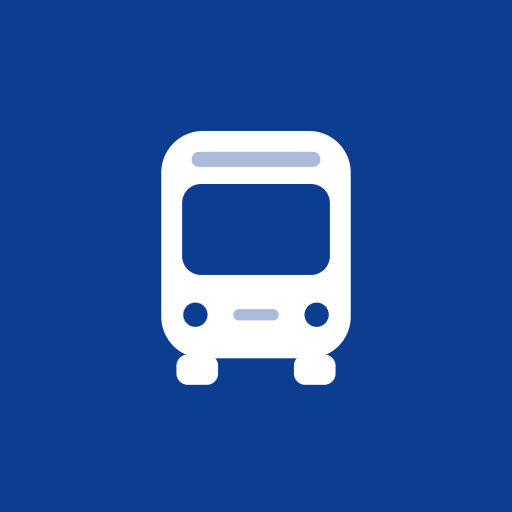
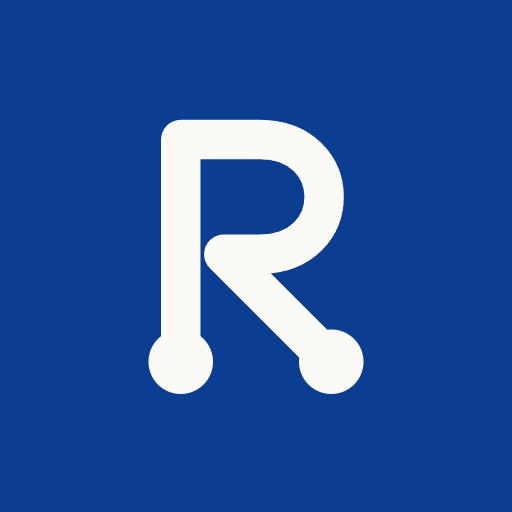
feat(ilme): Reittari-merkki ja nimi "Reittari <kaupunki>" (#63)
Villen päätökset 4.10.2026 (päätössivun kohdat 3, 4 ja 6):
- Uusi ikoni: kirjain R yhtenä reittiviivana, päissä pysäkit, Savikurki-merkin viivakielellä.
  icon.svg, icon-app.svg (maskable-turva-alue) ja kotinäytön 192/512 PNG:t.
- Kaupungin alkukirjain pois yläpalkista ja ylläpitosivulta: tilalla sama merkki. Tausta pysyy
  kaupungin värinä (Vaasassa Liftin pinkki), viiva currentColor.
- Otsikko "Lahden bussiaikataulut" -> "Reittari Lahti" kaikilla kielillä, sama kuin kotinäytön
  nimi. Alaotsikko on liikenteen virallinen nimi (CONFIG.operator); kaupunkikohtainen ohitus
  CONFIG.headerSub (Inkoo, ja ruotsiksi Vaasa Lifti, Raasepori BOSSE, Turku Föli). Lahden
  manifestin nimi "Reittari Lahti".
- smoke ja prod-smoke: otsikkotarkistukset uuteen muotoon, FI/SV-fallbackia ei edelleenkään hyväksytä.

Worker npm test OK. Selain: Lahti fi/en, Vaasa sv, Inkoo fi/sv, Raasepori sv, Turku fi/sv, Kuopio fi:
otsikko ja alaotsikko oikein, 0 sivuvirhettä.

Changed region(s): [[0.2812, 0.2188, 0.7188, 0.7812]]

diff --git a/index.html b/index.html
@@ -2206,7 +2206,8 @@
   .header-inner { gap: 0.5rem 1.5rem; }
   .brand { flex: 0 1 auto; }
   .brand-glyph { width: 34px; height: 34px; border-radius: 8px; background: var(--btn-bg); color: #fff;
-    display: grid; place-items: center; font-weight: 800; font-size: 1.05rem; line-height: 1; flex: none; }
+    display: grid; place-items: center; flex: none; }
+  .brand-glyph svg { width: 100%; height: 100%; display: block; }
   header h1 { font-size: 1.1rem; font-weight: 800; letter-spacing: -0.005em; line-height: 1.2; }
   header p { color: var(--ink-muted); opacity: 1; font-size: 0.78rem; }
   .hdr-nav { display: flex; gap: 1.25rem; flex: 1 1 auto; min-width: 0; }
@@ -2321,10 +2322,12 @@
 <header>
   <div class="header-inner">
     <a class="brand" id="brandLink" href="#/" aria-label="Etusivulle">
-      <span class="brand-glyph" id="brandGlyph" aria-hidden="true">L</span>
+      <!-- Reittari-merkki (4.10.2026, Villen päätös): kaupungin alkukirjain korvattu R-reittiviivalla.
+           Tausta pysyy kaupungin värinä (--btn-bg), viiva currentColor. Sama merkki kuin icon.svg:ssä. -->
+      <span class="brand-glyph" id="brandGlyph" aria-hidden="true"><svg viewBox="0 0 120 120" aria-hidden="true" focusable="false"><g transform="translate(-1 -2.5)"><path d="M40 92V30H62C86 30 86 62 62 62H52L80 90" fill="none" stroke="currentColor" stroke-width="11" stroke-linecap="round" stroke-linejoin="round"/><circle cx="40" cy="92" r="9" fill="currentColor"/><circle cx="82" cy="92" r="9" fill="currentColor"/></g></svg></span>
       <div>
-        <h1 id="appTitle">Lahden bussiaikataulut</h1>
-        <p id="appSub">Epävirallinen palvelu · data: Lahden seudun liikenne / Waltti (CC BY 4.0)</p>
+        <h1 id="appTitle">Reittari Lahti</h1>
+        <p id="appSub">Lahden seudun liikenne</p>
       </div>
     </a>
     <!-- Päävalikko (ilme 25.9.2026): kuntalaisen etusivu, tulosteet, tiski ja henkilöstön tilanne.
@@ -2626,6 +2629,7 @@ const CONFIGS = {
     cityNames: { sv: "Vasa" },
     cityGenitives: { sv: "Vasa" },
     operator: "Vaasan paikallisliikenne",
+    headerSub: { sv: "Lifti" },
     operatorShort: "Lifti",
     feedMatch: /vaasa/i,
     rail: "VS",
@@ -2840,6 +2844,7 @@ const CONFIGS = {
     cityNames: { sv: "Raseborg" },
     cityGenitives: { sv: "Raseborgs" },
     operator: "Raaseporin joukkoliikenne",
+    headerSub: { sv: "BOSSE" },
     operatorShort: "BOSSE",
     feedMatch: /raasepori/i,
     // Kaksi asemaa, tiskin oletuspysäkin mukainen ensin. Tammisaari (TMS) on
@@ -3690,6 +3695,7 @@ const CONFIGS = {
     cityNames: { sv: "Åbo" },
     cityGenitives: { sv: "Åbo" },
     operator: "Föli, Turun seudun joukkoliikenne",
+    headerSub: { sv: "Föli" },
     operatorShort: "Föli",
     feedMatch: /^FOLI$/i,          // ankkuroitu: FUNI (Föri + funikulaari) on eri feed
     rail: "TKU",                    // Turku asema (rata.digitraffic)
@@ -3820,6 +3826,7 @@ const CONFIGS = {
     cityGenitives: { sv: "Ingå" },
     // Uudenmaan ELY-keskus ei ole ollut joukkoliikenteen tilaaja 1.1.2026 jälkeen.
     operator: "Traficom ja alueen liikennöitsijät",
+    headerSub: { fi: "Inkoon joukkoliikenne", sv: "Ingå kollektivtrafik", en: "Inkoo public transport" },
     // Inkoo on ruotsinkielisenemmistöinen: tulosteessa tilaajarivi ei saa jäädä suomeksi.
     operators: { sv: "Traficom och trafikidkarna i området",
                  en: "Traficom and local operators" },
@@ -4047,11 +4054,13 @@ const app = document.getElementById("app");
 const STRINGS = {
   fi: {
     // sovelluskehys
-    appTitle: "{cityGen} bussiaikataulut",
-    appTitleTag: "{cityGen} bussiaikataulut (epävirallinen)",
+    // Nimi (Villen päätös 4.10.2026): tuotenimi + kaupunki, sama kuin kotinäytön ikonin nimi
+    // (manifestit "Reittari Turku"). Alaotsikko on liikenteen virallinen nimi (headerSubText).
+    appTitle: "Reittari {city}",
+    appTitleTag: "Reittari {city} (epävirallinen)",
     metaDesc: "{cityGen} bussien aikataulut, reaaliaikaiset lähdöt, reittiopas, häiriötiedotteet, liput ja kartat selaimessa. Epävirallinen palvelu avoimen Waltti-/Digitransit-datan päälle.",
     metaDescNoRt: "{cityGen} bussien aikataulut, pysäkkien lähdöt, reittiopas, häiriötiedotteet, liput ja kartat selaimessa. Epävirallinen palvelu avoimen Waltti-/Digitransit-datan päälle.",
-    headerSub: "Aikataulut ja reitit selkeästi, avoimesta datasta",
+    headerSub: "{operator}",
     heroTitle: "Mihin matka?",
     heroTagline: "Hae nopein bussireitti perille reaaliaikaisilla lähtöajoilla.",
     heroTaglineNoRt: "Hae nopein bussireitti perille ja katso pysäkin seuraavat lähdöt.",
@@ -4773,11 +4782,11 @@ const STRINGS = {
     copied: "Kopioitu!", copyManual: "Kopiointi estetty. Valitse ja kopioi käsin.",
   },
   en: {
-    appTitle: "{city} bus timetables",
-    appTitleTag: "{city} bus timetables (unofficial)",
+    appTitle: "Reittari {city}",
+    appTitleTag: "Reittari {city} (unofficial)",
     metaDesc: "{city} bus timetables, real-time departures, journey planner, disruption alerts, tickets and maps in your browser. Unofficial service built on open Waltti/Digitransit data.",
     metaDescNoRt: "{city} bus timetables, stop departures, journey planner, disruption alerts, tickets and maps in your browser. Unofficial service built on open Waltti/Digitransit data.",
-    headerSub: "Timetables and routes made clear, from open data",
+    headerSub: "{operator}",
     heroTitle: "Where to?",
     heroTagline: "Find the fastest bus route with real-time departures.",
     heroTaglineNoRt: "Find the fastest bus route and see the next departures from your stop.",
@@ -5473,11 +5482,11 @@ const STRINGS = {
     copied: "Copied!", copyManual: "Copy blocked. Select and copy manually.",
   },
   sv: {
-    appTitle: "Busstidtabeller i {city}",
-    appTitleTag: "Busstidtabeller i {city} (inofficiell)",
+    appTitle: "Reittari {city}",
+    appTitleTag: "Reittari {city} (inofficiell)",
     metaDesc: "Busstidtabeller i {city}, avgångar i realtid, reseplanerare, störningsmeddelanden, biljetter och kartor i webbläsaren. Inofficiell tjänst byggd på öppna Waltti-/Digitransit-data.",
     metaDescNoRt: "Busstidtabeller i {city}, hållplatsernas avgångar, reseplanerare, störningsmeddelanden, biljetter och kartor i webbläsaren. Inofficiell tjänst byggd på öppna Waltti-/Digitransit-data.",
-    headerSub: "Tidtabeller och rutter tydligt, från öppna data",
+    headerSub: "{operator}",
     heroTitle: "Vart vill du?",
     heroTagline: "Hitta den snabbaste bussrutten med avgångar i realtid.",
     heroTaglineNoRt: "Hitta den snabbaste bussrutten och se nästa avgångar från hållplatsen.",
@@ -6274,6 +6283,10 @@ function nlExample(i) {
 }
 
 function t(key, params) { return tIn(lang, key, params); }
+// Yläpalkin alaotsikko: liikenteen virallinen nimi (CONFIG.operator). Kaupunki voi ohittaa sen
+// kielittäin (CONFIG.headerSub = {fi, sv, en}), jos operator-kenttä ei sovi otsikoksi tai
+// ruotsinkielinen nimi on eri (Inkoo, Raasepori, Vaasa).
+function headerSubText() { return (CONFIG.headerSub && CONFIG.headerSub[lang]) || t("headerSub"); }
 // ●-selite ("= reaaliaikainen arvio") vain kaupungeissa, joiden lähdöissä on reaaliaikaa.
 function rtLegendHtml(key) {
   return CONFIG.departureRealtime === false ? "" : `<p class="muted"><span class="rt">●</span> ${t(key)}</p>`;
@@ -6342,9 +6355,8 @@ function updateChrome() {
   setMeta('meta[name="twitter:description"]', t("metaDesc"));
   setMeta('meta[property="og:locale"]', lang === "sv" ? "sv_SE" : lang === "en" ? "en_GB" : "fi_FI");
   document.getElementById("appTitle").textContent = t("appTitle");
-  document.getElementById("appSub").textContent = t("headerSub");
+  document.getElementById("appSub").textContent = headerSubText();
   document.getElementById("brandLink").setAttribute("aria-label", t("toHomeAria"));
-  document.getElementById("brandGlyph").textContent = String(CONFIG.city || "R").charAt(0).toUpperCase();
   const nav = document.getElementById("hdrNav");
   nav.setAttribute("aria-label", t("navAria"));
   const navItems = APP_MODE === "resident" ? [["", "#/", t("navHome")]]
@@ -6359,7 +6371,7 @@ function updateChrome() {
   document.getElementById("appFooter").innerHTML = `
     <div class="foot-cols">
       <div class="foot-brand">
-        <div><strong>${t("appTitle")}</strong><br><span class="muted">${t("headerSub")}</span>
+        <div><strong>${t("appTitle")}</strong><br><span class="muted">${headerSubText()}</span>
           <p class="foot-provider" id="footProvider"><span class="muted">${t("footProvider")}:</span>
             <a class="foot-sk" href="https://savikurki.fi" target="_blank" rel="noopener"><svg class="foot-sk-mark" viewBox="0 0 120 120" width="18" height="18" aria-hidden="true" focusable="false"><rect width="120" height="120" rx="24" fill="#b8764f"/><path d="M32 92 C 58 97, 88 92, 88 71 C 88 52, 36 62, 36 41 C 36 28, 50 22, 64 27" fill="none" stroke="#fbfaf7" stroke-width="15" stroke-linecap="round"/><path d="M66 28 L 96 37" fill="none" stroke="#fbfaf7" stroke-width="9" stroke-linecap="round"/></svg>Savikurki Digital Oy</a>,
             <a href="mailto:ville@reittari.fi">ville@reittari.fi</a></p>

diff --git a/tests/prod-smoke.test.js b/tests/prod-smoke.test.js
@@ -74,7 +74,7 @@ const DESK_PRINT_CITIES = (process.env.SMOKE_DESK_PRINT_CITIES === undefined
   ? null                                   // oletus: CITIES-taulun deskPrint päättää
   : process.env.SMOKE_DESK_PRINT_CITIES.split(",").map(s => s.trim()).filter(Boolean));
 
-// gen = FI-otsikon genetiivi ("<gen> bussiaikataulut") — Lahti-fallbackia ei hyväksytä.
+// name = FI-otsikon kaupunki ("Reittari <name>", 4.10.2026) — Lahti-fallbackia ei hyväksytä.
 // svTitle = kaksikielisen kaupungin SV-otsikko (FI-fallbackia ei hyväksytä).
 // nightStopId/nightLines = Lahden yövuorotarkistus (Matkakeskus A, todennettu datasta
 // 9.7.2026). FAIL-taso ei sido linjanumeroita: feedivaihto saa muuttaa yölinjoja ilman
@@ -101,33 +101,33 @@ const DESK_PRINT_CITIES = (process.env.SMOKE_DESK_PRINT_CITIES === undefined
 // raskain yksittäinen toimenpide, eikä sitä pidä ajaa 16 kertaa saman avaimen budjetista.
 // Ylikirjoitettavissa: SMOKE_BATCH_CITIES=vaasa,lahti (tyhjä = pois käytöstä).
 let CITIES = [ // let eika const: SMOKE_CITIES suodattaa taman eraajossa
-  { key: "lahti",   gen: "Lahden",   nightStopId: "Lahti:85811", nightLines: ["91", "96", "97"],
+  { key: "lahti",   name: "Lahti",   nightStopId: "Lahti:85811", nightLines: ["91", "96", "97"],
     batchPosterLine: "4", deskPrint: true },
-  { key: "kuopio",  gen: "Kuopion" },
-  { key: "salo",    gen: "Salon" },
-  { key: "kajaani", gen: "Kajaanin" },
-  { key: "vaasa",   gen: "Vaasan",   svTitle: "Busstidtabeller i Vasa", deskPrint: true },
-  { key: "kotka",   gen: "Kotkan" },
-  { key: "raasepori", gen: "Raaseporin", svTitle: "Busstidtabeller i Raseborg", deskPrint: true },
-  { key: "kouvola", gen: "Kouvolan", posterStopId: "Kouvola:155786" },
-  { key: "mikkeli", gen: "Mikkelin", posterStopId: "Mikkeli:310514", corridorDirs: 1 },
+  { key: "kuopio",  name: "Kuopio" },
+  { key: "salo",    name: "Salo" },
+  { key: "kajaani", name: "Kajaani" },
+  { key: "vaasa",   name: "Vaasa",   svTitle: "Reittari Vasa", deskPrint: true },
+  { key: "kotka",   name: "Kotka" },
+  { key: "raasepori", name: "Raasepori", svTitle: "Reittari Raseborg", deskPrint: true },
+  { key: "kouvola", name: "Kouvola", posterStopId: "Kouvola:155786" },
+  { key: "mikkeli", name: "Mikkeli", posterStopId: "Mikkeli:310514", corridorDirs: 1 },
   // Kaupunkisweep 7.8.2026: presetit datavarmistettu kesä- JA talvikoetuksella.
   // Rovaniemen 4+5-käytävän yhteinen jakso on yksisuuntainen (linjat kiertävät
   // keskustan eri reittejä) → corridorDirs 1, sama verkon muoto kuin Mikkelissä.
-  { key: "hameenlinna", gen: "Hämeenlinnan" },
-  { key: "joensuu", gen: "Joensuun" },
-  { key: "jyvaskyla", gen: "Jyväskylän" },
-  { key: "lappeenranta", gen: "Lappeenrannan" },
-  { key: "oulu", gen: "Oulun" },
-  { key: "pori", gen: "Porin" },
-  { key: "rovaniemi", gen: "Rovaniemen", corridorDirs: 1 },
+  { key: "hameenlinna", name: "Hämeenlinna" },
+  { key: "joensuu", name: "Joensuu" },
+  { key: "jyvaskyla", name: "Jyväskylä" },
+  { key: "lappeenranta", name: "Lappeenranta" },
+  { key: "oulu", name: "Oulu" },
+  { key: "pori", name: "Pori" },
+  { key: "rovaniemi", name: "Rovaniemi", corridorDirs: 1 },
   // Turku/Föli 29.8.2026: suurin kaupunki (141 linjaa, 26-laiturinen Kauppatori). Erä 2.
   // Presetit talvidatalla; kesäkoetus puuttuu (feed 14.8.-21.11.), kausivalidointi vahtii.
-  { key: "turku", gen: "Turun", svTitle: "Busstidtabeller i Åbo" },
+  { key: "turku", name: "Turku", svTitle: "Reittari Åbo" },
   // Inkoo 29.8.2026: ensimmäinen ei-Waltti-kunta (MATKA-feed, finland-router, aluerajattu
   // linjajoukko). Ei käytäväpresettejä: linjat ovat kaukoliikennettä, joten käytävätaulukko
   // kattaisi koko linjan (192+192M = 183 yhteistä pysäkkiä) eikä mahtuisi tulosteeseen.
-  { key: "inkoo", gen: "Inkoon", svTitle: "Busstidtabeller i Ingå", noCorridors: true },
+  { key: "inkoo", name: "Inkoo", svTitle: "Reittari Ingå", noCorridors: true },
 ];
 
 // Erarajaus. Tuntematon kaupunkiavain on kirjoitusvirhe eika tyhja era: se kaadetaan
@@ -441,9 +441,9 @@ function writeReport() {
         ? pass(city.key, "linjalista", tiles + " linjakorttia")
         : fail(city.key, "linjalista", "ei linjakortteja 30 s kuluessa");
       const title = await page.evaluate(() => document.getElementById("appTitle")?.textContent || "");
-      title.includes(city.gen + " bussiaikataulut")
+      title === "Reittari " + city.name
         ? pass(city.key, "title", '"' + title + '"')
-        : fail(city.key, "title", 'odotettu "' + city.gen + ' bussiaikataulut", oli "' + title + '"');
+        : fail(city.key, "title", 'odotettu "Reittari ' + city.name + '", oli "' + title + '"');
 
       // --- 2) FI/SV-kytkin (vain kaksikieliset kaupungit) ---
       if (city.svTitle) {

diff --git a/worker/admin-page.js b/worker/admin-page.js
@@ -44,7 +44,8 @@ export const ADMIN_HTML = `<!doctype html>
   .top { background:var(--surface); border-top:4px solid var(--accent); border-bottom:1px solid var(--line); }
   .top-in { max-width:1180px; margin:0 auto; padding:var(--s3) var(--s4); display:flex; align-items:center; gap:var(--s3) var(--s4); flex-wrap:wrap; }
   .brand { display:flex; align-items:center; gap:var(--s3); flex:1 1 auto; min-width:0; }
-  .glyph { width:36px; height:36px; border-radius:9px; background:var(--accent); color:#fff; display:grid; place-items:center; font-weight:800; font-size:1.05rem; flex:none; }
+  .glyph { width:36px; height:36px; border-radius:9px; background:var(--accent); color:#fff; display:grid; place-items:center; flex:none; }
+  .glyph svg { width:100%; height:100%; display:block; }
   .eyebrow { margin:0; font-size:var(--fs-xs); font-weight:700; color:var(--muted); line-height:1.2; }
   h1 { margin:0; font-size:var(--fs-lg); font-weight:800; line-height:1.2; display:flex; align-items:center; gap:var(--s2); flex-wrap:wrap; }
   .city-chip { font-size:var(--fs-sm); font-weight:700; color:var(--accent); background:var(--accent-soft); border-radius:999px; padding:2px 10px; }
@@ -176,7 +177,7 @@ export const ADMIN_HTML = `<!doctype html>
 <header class="top">
   <div class="top-in">
     <div class="brand">
-      <span class="glyph" id="glyph" aria-hidden="true">R</span>
+      <span class="glyph" id="glyph" aria-hidden="true"><svg viewBox="0 0 120 120" aria-hidden="true" focusable="false"><g transform="translate(-1 -2.5)"><path d="M40 92V30H62C86 30 86 62 62 62H52L80 90" fill="none" stroke="currentColor" stroke-width="11" stroke-linecap="round" stroke-linejoin="round"/><circle cx="40" cy="92" r="9" fill="currentColor"/><circle cx="82" cy="92" r="9" fill="currentColor"/></g></svg></span>
       <div>
         <p class="eyebrow">Reittari</p>
         <h1>Ylläpito <span class="city-chip" id="cityName"></span></h1>
@@ -474,7 +475,6 @@ let TYOTILA = false;
 async function init(){
   $("openApp").href = "https://demo.reittari.fi/?city=" + CITY;
   $("cityName").textContent = CITY_NAME;
-  $("glyph").textContent = CITY_NAME.charAt(0);
   document.title = "Ylläpito · " + CITY_NAME + " · Reittari";
   const s = await api("admin/api/session?city=" + CITY, { method:"GET" });
   // Työtilassa kirjautuminen ja uloskirjautuminen ovat työtilan palkissa, ja palvelu avautuu työtilan polulta.

diff --git a/tests/smoke.test.js b/tests/smoke.test.js
@@ -887,16 +887,17 @@ async function minuuttiLinjaus(page, rootSel, media) {
   }
 
   // --- Kaksikielisyys (Vaasa, SV): UI + CONFIG.cityNames.sv + GTFS-datan pysäkkinimet ---
-  // Kielenvaihto SV → otsikko "Busstidtabeller i Vasa" (cityNames.sv) ja linjasivun
+  // Kielenvaihto SV → otsikko "Reittari Vasa" (cityNames.sv) ja alaotsikko "Lifti" (headerSub.sv), linjasivun
   // suuntavalinnassa ruotsinkielinen pysäkkinimi (name@L → translations.txt-data).
-  // EI hyväksytä FI-fallbackia: "Busstidtabeller" ja vägen/gatan/esplanaden ovat sv-spesifejä.
+  // EI hyväksytä FI-fallbackia: "Vasa" (ei "Vaasa") ja vägen/gatan/esplanaden ovat sv-spesifejä.
   await page.goto(BASE + "/?city=vaasa#/", { waitUntil: "networkidle2" });
   await page.click('[data-lang-opt="sv"]');
   const svHome = await page.waitForFunction(
     () => document.documentElement.lang === "sv"
-      && (document.getElementById("appTitle")?.textContent || "").includes("Busstidtabeller i Vasa"),
+      && (document.getElementById("appTitle")?.textContent || "") === "Reittari Vasa"
+      && (document.getElementById("appSub")?.textContent || "") === "Lifti",
     { timeout: 10000 }).then(() => true).catch(() => false);
-  svHome ? ok("kaksikielisyys (Vaasa, SV): otsikko 'Busstidtabeller i Vasa' + lang=sv")
+  svHome ? ok("kaksikielisyys (Vaasa, SV): otsikko 'Reittari Vasa', alaotsikko 'Lifti' + lang=sv")
          : fail("kaksikielisyys (Vaasa, SV): otsikko/lang ei vaihtunut ruotsiksi");
   await page.waitForSelector('#routeList a[href^="#/linja/"]', { timeout: 20000 });
   const svRouteHref = await page.evaluate(() =>
